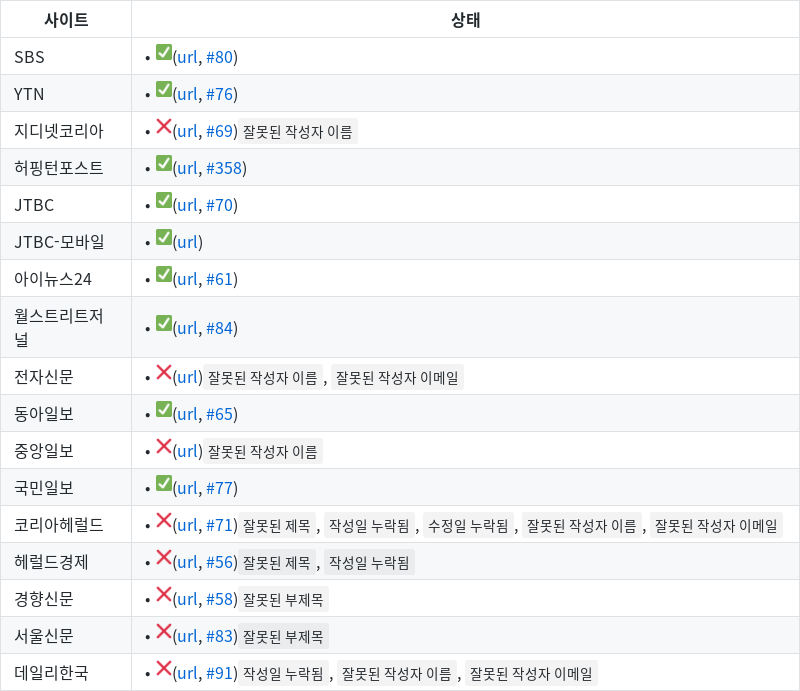
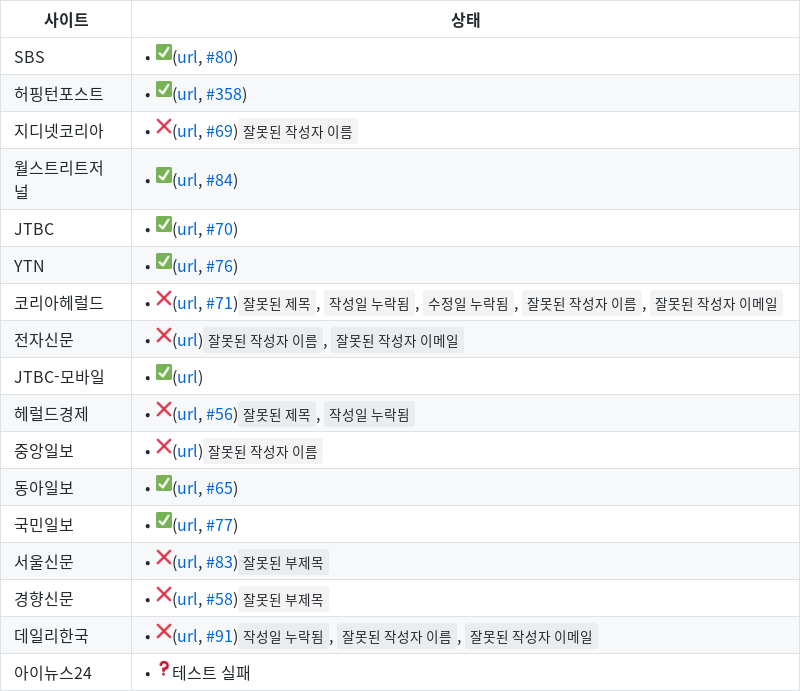
Fri Jan 10 00:09:39 UTC 2020

diff --git a/health-check.md b/health-check.md
@@ -1,19 +1,19 @@
 | 사이트 | 상태 |
 |------|-------|
 | SBS | • ✅([url](https://news.sbs.co.kr/news/endPage.do?news_id=N1002697236), [#80](https://github.com/disjukr/just-news/issues/#80)) |
-| YTN | • ✅([url](https://www.ytn.co.kr/_ln/0103_201411190800481989), [#76](https://github.com/disjukr/just-news/issues/#76)) |
-| 지디넷코리아 | • ❌([url](http://www.zdnet.co.kr/view/?no=20141104074223), [#69](https://github.com/disjukr/just-news/issues/#69))`잘못된 작성자 이름` |
 | 허핑턴포스트 | • ✅([url](https://www.huffingtonpost.kr/entry/story_kr_5d36a558e4b004b6adb5029c?9e4), [#358](https://github.com/disjukr/just-news/issues/#358)) |
-| JTBC | • ✅([url](http://news.jtbc.joins.com/article/article.aspx?news_id=NB10639468), [#70](https://github.com/disjukr/just-news/issues/#70)) |
-| JTBC-모바일 | • ✅([url](http://mnews.jtbc.joins.com/News/Article.aspx?news_id=NB11866214)) |
-| 아이뉴스24 | • ✅([url](http://www.inews24.com/view/860573), [#61](https://github.com/disjukr/just-news/issues/#61)) |
+| 지디넷코리아 | • ❌([url](http://www.zdnet.co.kr/view/?no=20141104074223), [#69](https://github.com/disjukr/just-news/issues/#69))`잘못된 작성자 이름` |
 | 월스트리트저널 | • ✅([url](https://realtime.wsj.com/korea/2014/10/13/%EB%B0%95%EC%9B%90%EC%88%9C-%EC%84%9C%EC%9A%B8%EC%8B%9C%EC%9E%A5-%EB%AF%B8%EA%B5%AD-%EC%96%B8%EB%A1%A0%EC%97%90-%EB%8F%99%EC%84%B1%EA%B2%B0%ED%98%BC-%EC%A7%80%EC%A7%80-%EB%B0%9C%EC%96%B8/), [#84](https://github.com/disjukr/just-news/issues/#84)) |
-| 전자신문 | • ❌([url](http://www.etnews.com/20191031000370?mc=ns_003_00006))`잘못된 작성자 이름`, `잘못된 작성자 이메일` |
-| 동아일보 | • ✅([url](http://news.donga.com/3/03/20141107/67723014/1), [#65](https://github.com/disjukr/just-news/issues/#65)) |
-| 중앙일보 | • ❌([url](https://news.joins.com/article/23621286))`잘못된 작성자 이름` |
-| 국민일보 | • ✅([url](http://news.kmib.co.kr/article/view.asp?arcid=0008864720&code=61121111), [#77](https://github.com/disjukr/just-news/issues/#77)) |
+| JTBC | • ✅([url](http://news.jtbc.joins.com/article/article.aspx?news_id=NB10639468), [#70](https://github.com/disjukr/just-news/issues/#70)) |
+| YTN | • ✅([url](https://www.ytn.co.kr/_ln/0103_201411190800481989), [#76](https://github.com/disjukr/just-news/issues/#76)) |
 | 코리아헤럴드 | • ❌([url](http://khnews.kheraldm.com/view.php?ud=20141111001137&md=20141111180830_BK&kr=1), [#71](https://github.com/disjukr/just-news/issues/#71))`잘못된 제목`, `작성일 누락됨`, `수정일 누락됨`, `잘못된 작성자 이름`, `잘못된 작성자 이메일` |
+| 전자신문 | • ❌([url](http://www.etnews.com/20191031000370?mc=ns_003_00006))`잘못된 작성자 이름`, `잘못된 작성자 이메일` |
+| JTBC-모바일 | • ✅([url](http://mnews.jtbc.joins.com/News/Article.aspx?news_id=NB11866214)) |
 | 헤럴드경제 | • ❌([url](http://news.heraldcorp.com/view.php?ud=20141023000202&md=20141023091209_BK), [#56](https://github.com/disjukr/just-news/issues/#56))`잘못된 제목`, `작성일 누락됨` |
-| 경향신문 | • ❌([url](http://biz.khan.co.kr/khan_art_view.html?artid=201410311921301&code=920100&med=khan), [#58](https://github.com/disjukr/just-news/issues/#58))`잘못된 부제목` |
+| 중앙일보 | • ❌([url](https://news.joins.com/article/23621286))`잘못된 작성자 이름` |
+| 동아일보 | • ✅([url](http://news.donga.com/3/03/20141107/67723014/1), [#65](https://github.com/disjukr/just-news/issues/#65)) |
+| 국민일보 | • ✅([url](http://news.kmib.co.kr/article/view.asp?arcid=0008864720&code=61121111), [#77](https://github.com/disjukr/just-news/issues/#77)) |
 | 서울신문 | • ❌([url](http://seoul.co.kr/news/newsView.php?id=20141204500025), [#83](https://github.com/disjukr/just-news/issues/#83))`잘못된 부제목` |
+| 경향신문 | • ❌([url](http://biz.khan.co.kr/khan_art_view.html?artid=201410311921301&code=920100&med=khan), [#58](https://github.com/disjukr/just-news/issues/#58))`잘못된 부제목` |
 | 데일리한국 | • ❌([url](http://daily.hankooki.com/lpage/politics/201412/dh20141219103740137430.htm), [#91](https://github.com/disjukr/just-news/issues/#91))`작성일 누락됨`, `잘못된 작성자 이름`, `잘못된 작성자 이메일` |
+| 아이뉴스24 | • ❓테스트 실패 |
